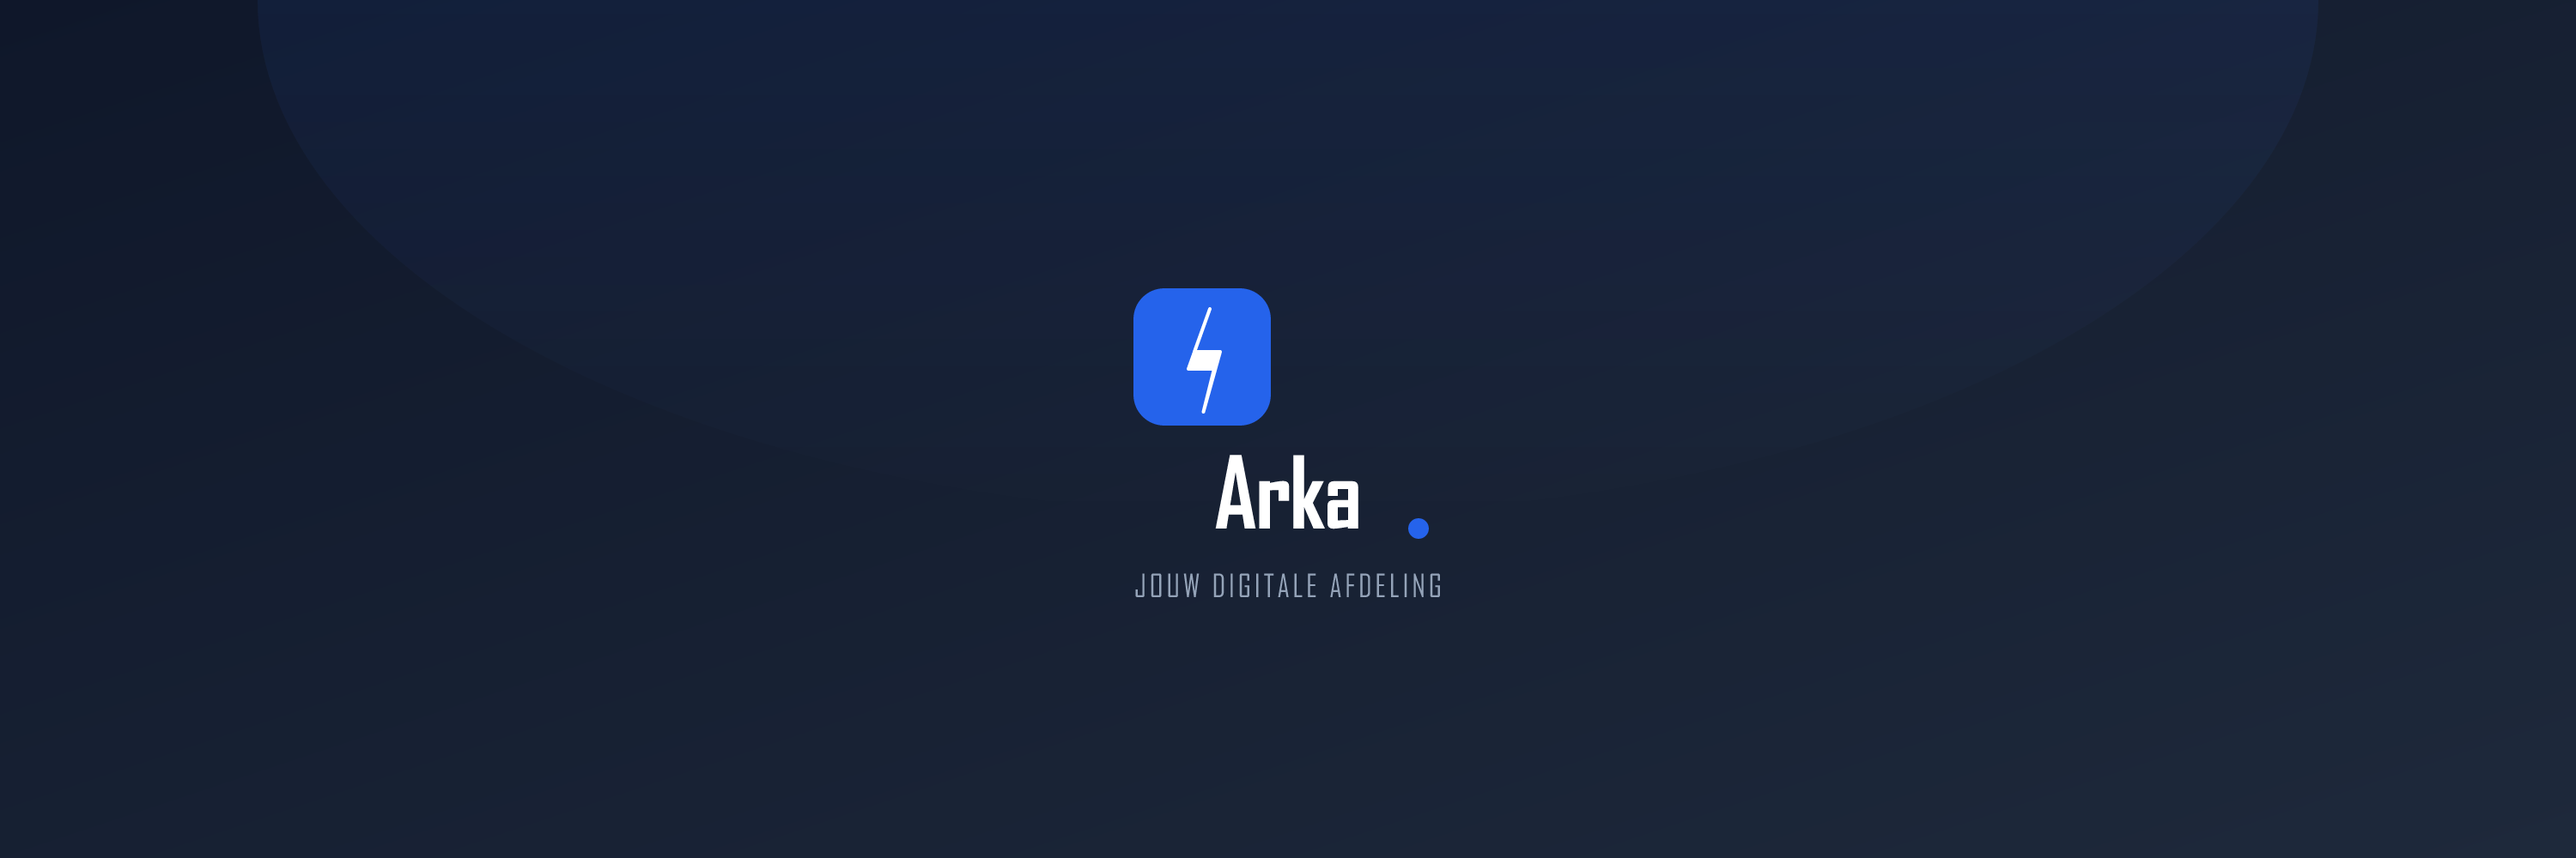
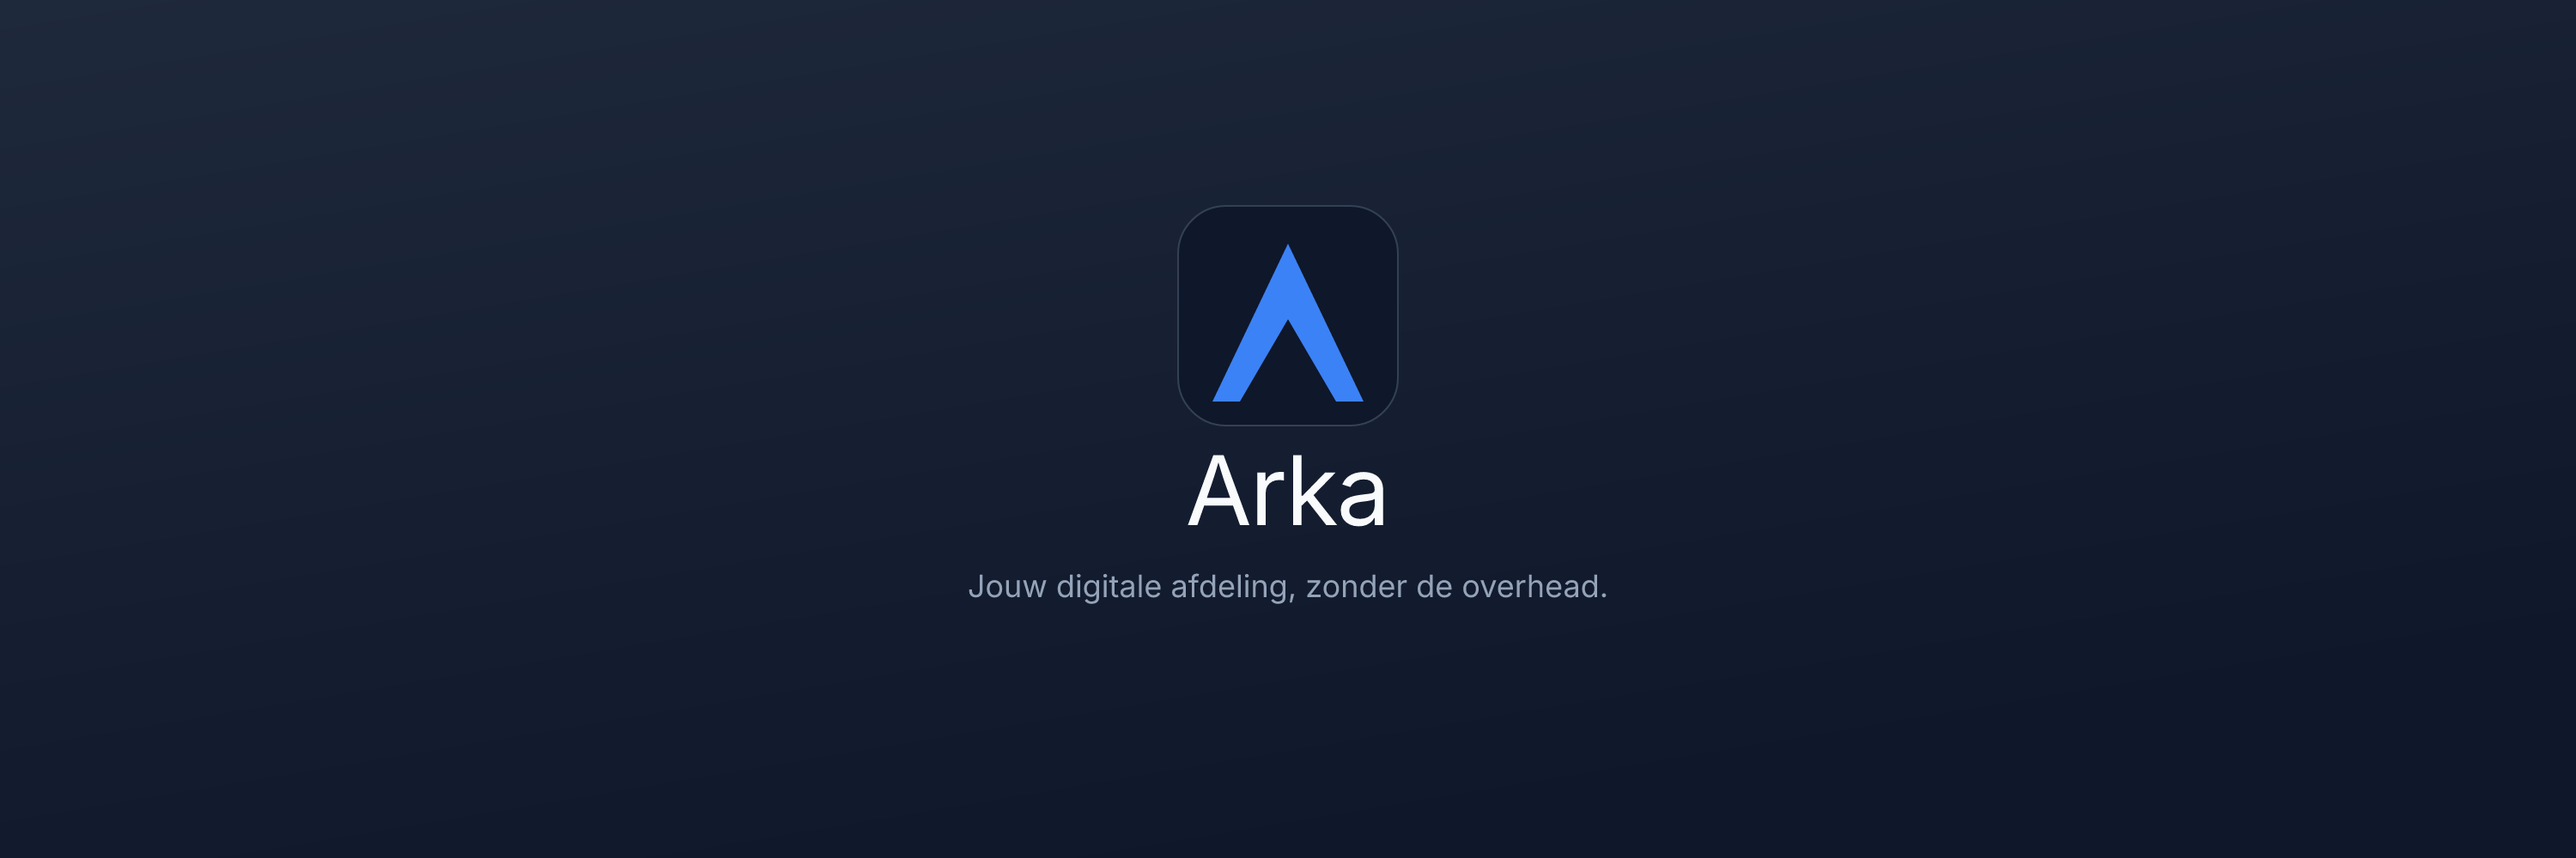
LinkedIn brand assets, footer link, offerte form fix
- Add LinkedIn profile, personal cover, and company cover (SVG + PNG)
- Add square logo variant (logo-icon-dark-square)
- Fix cover-dark.svg: center logo
- Regenerate all PNGs with Inter font
- Remove 19 unused concept SVGs from public/brand/concepts/
- Add LinkedIn icon + link to footer
- Fix offerte form: explicit text colors on select dropdowns (white text on white bg)

Changed region(s): [[0.434, 0.279, 0.527, 0.496], [0.372, 0.651, 0.62, 0.713], [0.465, 0.527, 0.558, 0.62]]

diff --git a/components/ui/FormField.tsx b/components/ui/FormField.tsx
@@ -1,7 +1,8 @@
 import { cn } from "@/lib/utils";
 
 const inputBase =
-  "w-full border border-dark-200 rounded-xl px-4 py-3 text-sm bg-white " +
+  "w-full border border-dark-200 rounded-xl px-4 py-3 text-sm bg-white text-dark-900 " +
+  "placeholder:text-dark-400 " +
   "focus:outline-none focus:ring-2 focus:ring-brand-500 focus:border-transparent " +
   "disabled:opacity-50 disabled:cursor-not-allowed";
 
@@ -47,11 +48,11 @@ export function FormField({
         <select
           {...selectProps}
           id={id}
-          className={cn(inputBase, selectProps.className)}
+          className={cn(inputBase, "text-dark-900", selectProps.className)}
         >
-          <option value="">{selectProps.placeholder ?? `Selecteer ${label.toLowerCase()}`}</option>
+          <option value="" className="text-dark-400">{selectProps.placeholder ?? `Selecteer ${label.toLowerCase()}`}</option>
           {selectProps.options.map((opt) => (
-            <option key={opt.value} value={opt.value}>
+            <option key={opt.value} value={opt.value} className="text-dark-900 bg-white">
               {opt.label}
             </option>
           ))}

diff --git a/components/layout/Footer.tsx b/components/layout/Footer.tsx
@@ -1,7 +1,7 @@
 "use client";
 
 import { useTranslation } from "@/lib/i18n";
-import { Mail, Phone, MapPin } from "lucide-react";
+import { Mail, Phone, MapPin, Linkedin } from "lucide-react";
 import Link from "next/link";
 
 export function Footer() {
@@ -65,6 +65,12 @@ export function Footer() {
               <div className="flex items-center gap-2">
                 <MapPin className="w-4 h-4 text-brand-500" />
                 <span>Dordrecht, Nederland</span>
+              </div>
+              <div className="flex items-center gap-2">
+                <Linkedin className="w-4 h-4 text-brand-500" />
+                <a href="https://www.linkedin.com/company/arkadigital" target="_blank" rel="noopener noreferrer" className="hover:text-white transition-colors">
+                  LinkedIn
+                </a>
               </div>
               <p className="text-xs text-dark-500 mt-3">KVK: 42000761</p>
               <p className="text-xs text-dark-500">BTW: NL005424960B92</p>
